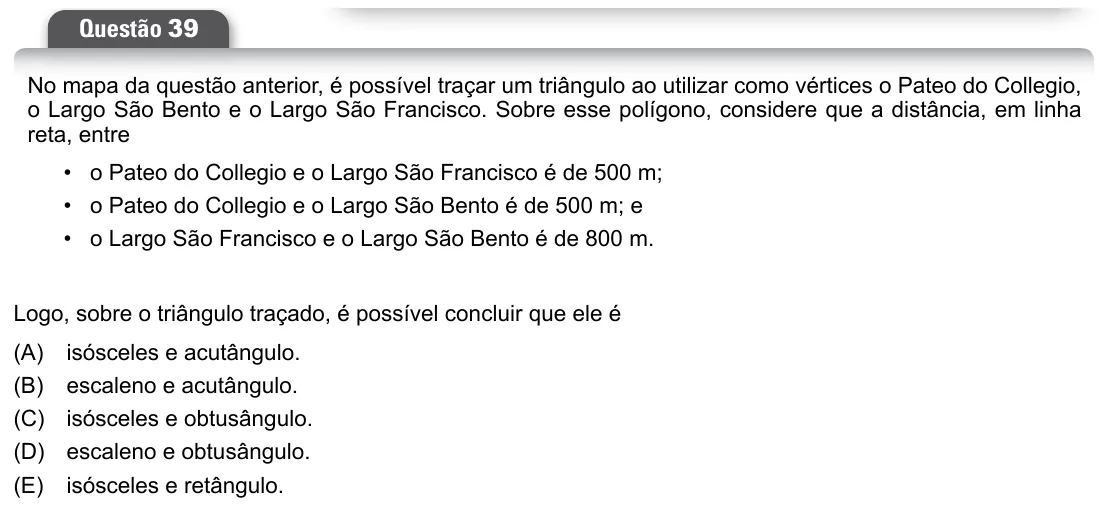
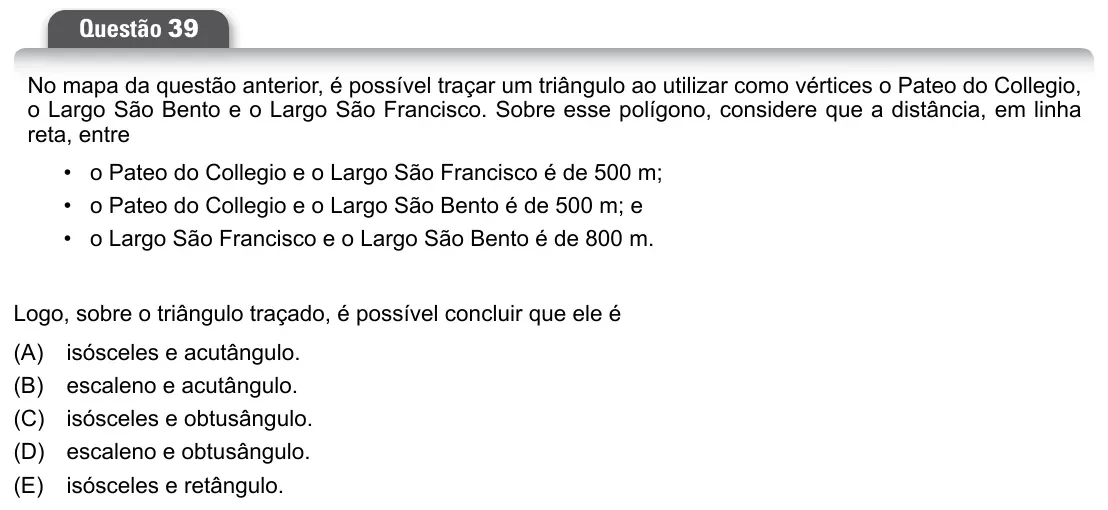
Ajustes de aparência: cinco imagens retocadas, contagens dos simulados e título
- 2º sem/2023 Q16 e Q39, 1º sem/2026 Q42 e 2º sem/2026 Q33: sobras de recorte.
- 1º sem/2026 Q30: escala de pH redesenhada sobre a barra.
- Cronograma: 40 questões no 1º sem/2023 e 50 no 1º sem/2024.
- Título da página sem o nome.

Claude-Session: https://claude.ai/code/session_01GnPQWG9R611hQkHG4U6UaM

Changed region(s): [[0.3069, 0.0, 0.9819, 0.0588]]

diff --git a/dados/cronograma.js b/dados/cronograma.js
@@ -227,7 +227,7 @@ window.CRONOGRAMA = {
           dia_semana: "Sábado",
         tipo: "Simulado",
         simulado: "1º sem/2023",
-        descricao: "Simulado com 52 questões de todas as disciplinas"
+        descricao: "Simulado com 40 questões de todas as disciplinas"
       }
     },
 
@@ -392,7 +392,7 @@ window.CRONOGRAMA = {
           dia_semana: "Sábado",
         tipo: "Simulado",
         simulado: "1º sem/2024",
-        descricao: "Simulado com 49 questões"
+        descricao: "Simulado com 50 questões"
       }
     },
 

diff --git a/dados/questoes.js b/dados/questoes.js
@@ -4158,7 +4158,7 @@ window.SEED = [
   "tipo": "q",
   "img": "img/2026-2/q33.webp",
   "w": 1083,
-  "h": 1001,
+  "h": 299,
   "gab": 0,
   "coment": "“Apesar de” indica concessão: uma dificuldade que não impede o fato. O mesmo sentido aparece com “embora”: embora haja barreiras, os países se encontrarão. “Portanto” indica conclusão, “como” indica causa e “se” indica condição. A alternativa E muda quem pratica a ação (“nos encontraremos”).",
   "base": "img/2026-2/base_32-33.webp",

diff --git a/index.html b/index.html
@@ -3,7 +3,7 @@
 <head>
     <meta charset="UTF-8">
     <meta name="viewport" content="width=device-width, initial-scale=1.0">
-    <title>Painel ETEC - Fernanda</title>
+    <title>Painel ETEC</title>
     <link href="https://fonts.googleapis.com/css2?family=Archivo:wght@400;600;700&family=IBM+Plex+Mono:wght@400;600&display=swap" rel="stylesheet">
     <style>
         :root {
